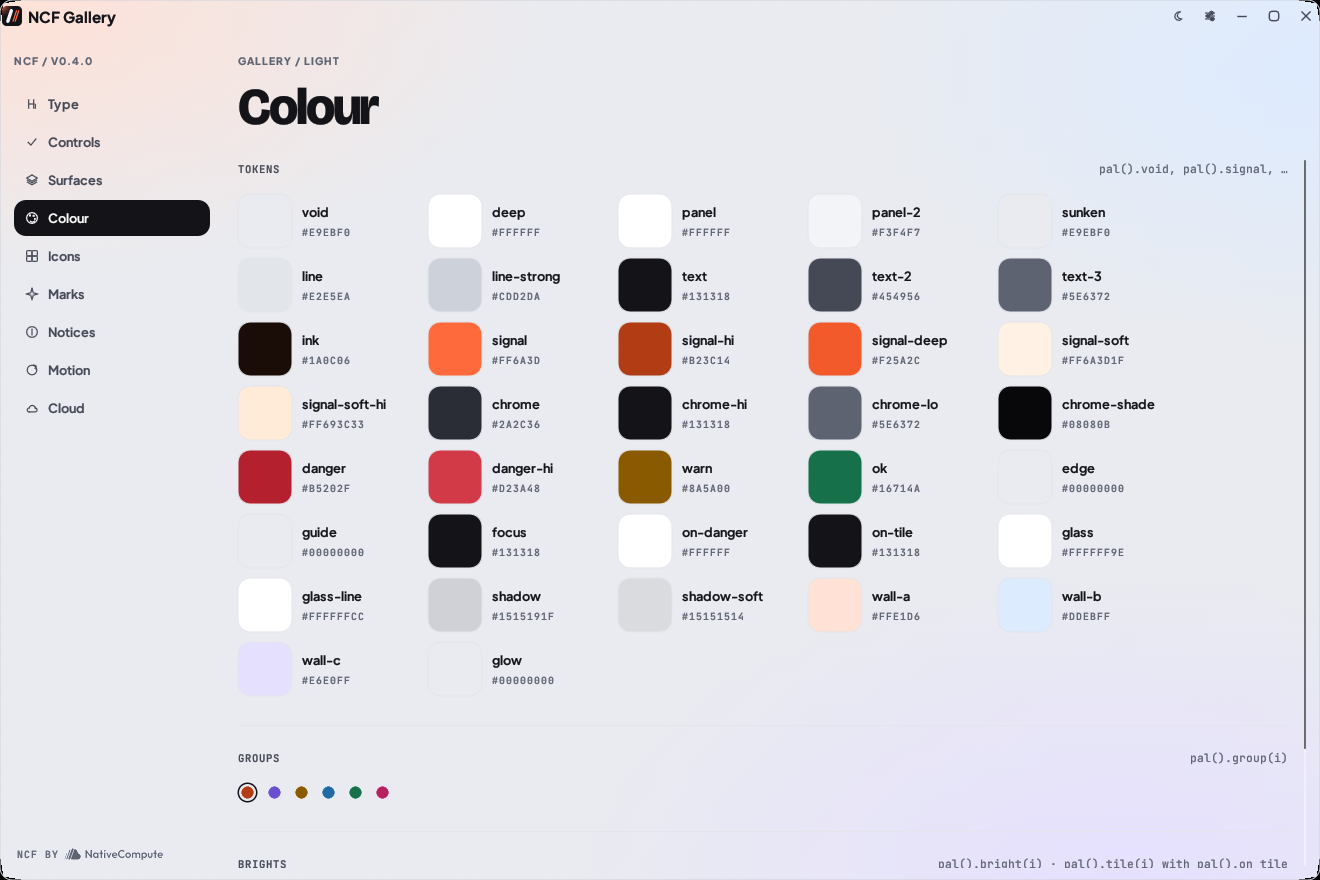
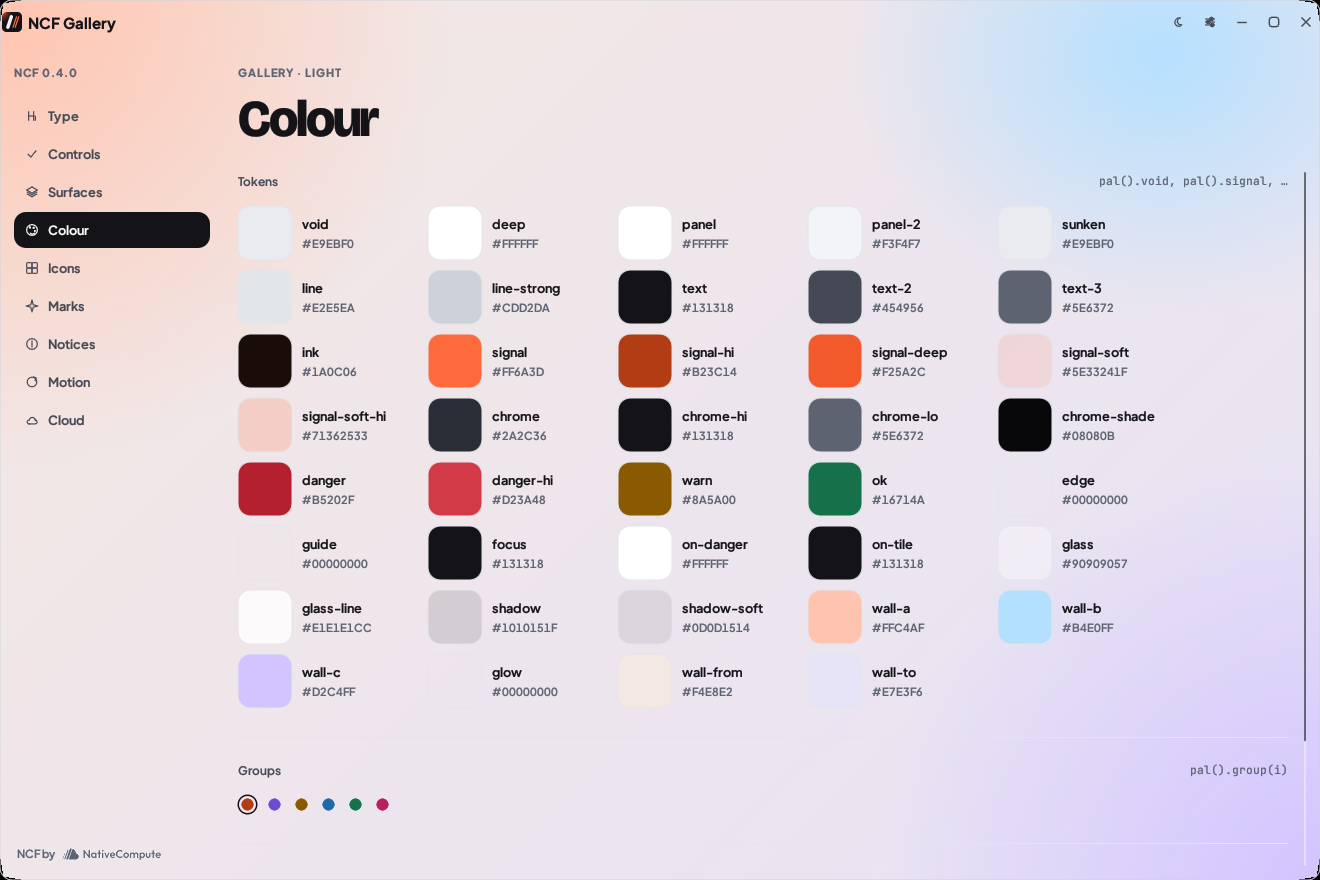
Segmented tabs share the width they are given; docs and gallery for the label type and the glass shell
seg_tabs no longer grows past the width it is handed, so a tab row with
counts stays inside a narrow panel. The docs describe the Jakarta label cut,
sentence-case readouts, eyebrows as the only capitals, and the new widgets,
and the gallery shows them in both casts.

diff --git a/examples/gallery/src/main.rs b/examples/gallery/src/main.rs
@@ -93,7 +93,7 @@ impl NcfApp for Gallery {
         let full = ui.available_rect_before_wrap();
         let nav = Rect::from_min_size(full.min + Vec2::new(0.0, 12.0), Vec2::new(196.0, full.height() - 12.0));
         let mut n = ui.new_child(egui::UiBuilder::new().max_rect(nav).layout(Layout::top_down(Align::Min)));
-        ui::eyebrow(&mut n, &format!("NCF / V{}", ncf::VERSION));
+        ui::eyebrow(&mut n, &format!("NCF {}", ncf::VERSION));
         n.add_space(10.0);
         if let Some(k) = ui::vertical_tabs(&mut n, &SECTIONS, self.section) {
             self.section = k;
@@ -106,7 +106,7 @@ impl NcfApp for Gallery {
         let pane = Rect::from_min_max(Pos2::new(nav.right() + 28.0, full.top() + 12.0), full.max);
         let mut c = ui.new_child(egui::UiBuilder::new().max_rect(pane).layout(Layout::top_down(Align::Min)));
         let (name, _) = SECTIONS[self.section];
-        ui::eyebrow(&mut c, &format!("Gallery / {}", if pal().dark { "dark" } else { "light" }));
+        ui::eyebrow(&mut c, &format!("Gallery · {}", if pal().dark { "dark" } else { "light" }));
         ui::giant_fit(&mut c, name, 52.0, 28.0, pane.width());
         c.add_space(14.0);
         egui::ScrollArea::vertical().id_salt(("gallery", self.section)).auto_shrink([false, false]).show(&mut c, |ui| {
@@ -145,7 +145,7 @@ impl Gallery {
             ui::giant(ui, "NATIVECOMPUTE", 54.0);
         });
         block(ui, "Eyebrow", "ui::eyebrow(ui, text)", |ui| {
-            ui::eyebrow(ui, "Ledger / 12 items");
+            ui::eyebrow(ui, "Continue writing");
         });
         block(ui, "Heading", "ui::heading(ui, text)", |ui| {
             ui::heading(ui, "Recent work");
@@ -156,11 +156,13 @@ impl Gallery {
         block(ui, "Caption", "ui::caption(ui, text)", |ui| {
             ui::caption(ui, "Saved 2 minutes ago · 14 KB");
         });
-        block(ui, "HUD", "ui::hud(ui, text, None)", |ui| {
+        block(ui, "Label", "ui::hud(ui, text, None)", |ui| {
             ui.horizontal(|ui| {
-                ui::hud(ui, "V0.1.0 / STABLE", None);
+                ui::hud(ui, &format!("Up to date · {}", ncf::VERSION), None);
                 ui.add_space(16.0);
-                ui::hud(ui, "SIGNAL", Some(pal().signal_hi));
+                ui::hud(ui, "Synced · 2s ago", Some(pal().signal_hi));
+                ui.add_space(16.0);
+                ui::hud(ui, "1,240 · 0,987 · 2,016", None);
             });
         });
         block(ui, "Scale", "theme::T_TITLE … T_MICRO", |ui| {
@@ -224,6 +226,34 @@ impl Gallery {
             ui.set_max_width(420.0);
             ui::slider(ui, &mut self.level, 0.0..=1.0);
         });
+        block(ui, "Tags", "ui::tag(ui, text, tone) · ui::live_tag", |ui| {
+            ui.horizontal(|ui| {
+                ui::tag(ui, "Night", Some(1));
+                ui::tag(ui, "Day", Some(2));
+                ui::tag(ui, "Dawn", Some(0));
+                ui::tag(ui, "Draft 2", None);
+                ui::live_tag(ui, "Live");
+            });
+        });
+        block(ui, "Select and stat chips", "ui::select_button · ui::stat_chip", |ui| {
+            ui.horizontal(|ui| {
+                ui::select_button(ui, "Element", "Action");
+                ui.add_space(12.0);
+                ui::stat_chip(ui, "1", "page");
+                ui::stat_chip(ui, "117", "words");
+            });
+        });
+        block(ui, "Segmented tabs", "ui::seg_tabs(ui, &tabs, current, Some(width))", |ui| {
+            let tabs = [
+                ui::SegTab { label: "Scenes", icon: None, count: None, dot: false },
+                ui::SegTab { label: "Notes", icon: None, count: Some(3), dot: false },
+                ui::SegTab { label: "Changes", icon: None, count: None, dot: true },
+                ui::SegTab { label: "Cast", icon: None, count: None, dot: false },
+            ];
+            if let Some(k) = ui::seg_tabs(ui, &tabs, self.seg.min(3), Some(320.0)) {
+                self.seg = k;
+            }
+        });
         block(ui, "Segmented and tabs", "ui::segmented · ui::tabs", |ui| {
             if let Some(k) = ui::segmented(ui, &[("Grid", Icon::Grid), ("List", Icon::List), ("Graph", Icon::Graph)], self.seg) {
                 self.seg = k;
@@ -283,7 +313,7 @@ impl Gallery {
                     theme::surface(ui.painter(), rect, theme::R_LG, lift);
                     let painter = ui.painter();
                     painter.circle_filled(rect.left_top() + Vec2::new(24.0, 26.0), 5.0, p.bright(i));
-                    ui::eyebrow_text(painter, rect.left_top() + Vec2::new(36.0, 26.0), &format!("Item {:02}", i + 1), p.text_3);
+                    ui::eyebrow_text(painter, rect.left_top() + Vec2::new(36.0, 26.0), &format!("Item {}", i + 1), p.text_3);
                     painter.text(rect.left_top() + Vec2::new(20.0, 56.0), egui::Align2::LEFT_CENTER, *title, theme::font_bold(theme::T_BODY + 1.0), p.text);
                     painter.text(rect.left_top() + Vec2::new(20.0, 80.0), egui::Align2::LEFT_CENTER, "Edited today", theme::font(theme::T_SM), p.text_2);
                 }
@@ -317,6 +347,23 @@ impl Gallery {
                 ui::ribbon_button(ui, Icon::Star, "Starred", "", true);
             });
         });
+        block(ui, "Glass sidebar", "ui::side_link · ui::side_section · ui::search_trigger", |ui| {
+            let (rect, _) = ui.allocate_exact_size(Vec2::new(ui.available_width().min(620.0), 220.0), Sense::hover());
+            theme::wallpaper(ui.painter(), rect, theme::R_LG);
+            let side = Rect::from_min_size(rect.min + Vec2::new(16.0, 16.0), Vec2::new(220.0, rect.height() - 32.0));
+            ui.painter().rect_filled(side, egui::Rounding::same(theme::R_LG), p.glass);
+            ui.painter().rect_stroke(side.shrink(0.5), egui::Rounding::same(theme::R_LG), egui::Stroke::new(1.0_f32, p.glass_line));
+            theme::glass_highlight(ui.painter(), side, theme::R_LG);
+            let mut c = ui.new_child(egui::UiBuilder::new().max_rect(side.shrink(10.0)).layout(Layout::top_down(Align::Min)));
+            ui::side_link(&mut c, Icon::Home, "Home", None, false);
+            ui::side_link(&mut c, Icon::File, "Crossfire", Some("open"), true);
+            ui::side_link(&mut c, Icon::Star, "Starred", Some("3"), false);
+            ui::side_section(&mut c, "Cloud");
+            ui::side_link(&mut c, Icon::Cloud, "My cloud", None, false);
+            let mut t = ui.new_child(egui::UiBuilder::new().max_rect(Rect::from_min_max(Pos2::new(side.right() + 20.0, side.top()), Pos2::new(rect.right() - 16.0, side.top() + 40.0))).layout(Layout::left_to_right(Align::Center)));
+            let w = t.available_width().min(340.0);
+            ui::search_trigger(&mut t, w, "Search or jump to…", &format!("{}+K", ncf::OS.command_key()));
+        });
         block(ui, "Section and separator", "ui::section(ui, label) · ui::separator(ui)", |ui| {
             ui::section(ui, "Motion");
             ui::caption(ui, "A section label groups the rows under it.");
@@ -328,14 +375,8 @@ impl Gallery {
             ui.painter().text(rect.center(), egui::Align2::CENTER_CENTER, "Keyboard focus", theme::font_semi(theme::T_SM), p.text);
             theme::focus_ring_r(ui.painter(), rect, rect.height() * 0.5);
         });
-        block(ui, "Empty state", "ui::giant + ui::body + ui::button", |ui| {
-            theme::panel_box().show(ui, |ui| {
-                ui.set_width(ui.available_width());
-                ui::giant(ui, "Nothing yet", 30.0);
-                ui::body(ui, "Make your first item and it shows up here.");
-                ui.add_space(8.0);
-                ui::button(ui, "New item", Some(Icon::Plus), true);
-            });
+        block(ui, "Empty state", "ui::empty_state(ui, icon, title, body, action)", |ui| {
+            ui::empty_state(ui, Icon::File, "Nothing here yet", "Make your first item and it shows up here.", Some("New item"));
         });
     }
 

diff --git a/crates/ncf/src/ui.rs b/crates/ncf/src/ui.rs
@@ -905,12 +905,14 @@ pub fn seg_tabs(ui: &mut egui::Ui, tabs: &[SegTab], current: usize, width: Optio
     let extra = |t: &SegTab| -> f32 {
         (if t.icon.is_some() { 22.0 } else { 0.0 }) + if t.count.is_some() { 26.0 } else if t.dot { 12.0 } else { 0.0 }
     };
-    let natural: Vec<f32> = tabs.iter().map(|t| theme::tracked_width(ui.ctx(), t.label, font.clone(), 0.0) + extra(t) + 30.0).collect();
+    let content: Vec<f32> = tabs.iter().map(|t| theme::tracked_width(ui.ctx(), t.label, font.clone(), 0.0) + extra(t)).collect();
     let pad = 4.0;
     let h = 38.0;
-    let total_natural: f32 = natural.iter().sum::<f32>() + pad * 2.0;
-    let total = width.unwrap_or(total_natural).max(total_natural);
-    let scale = (total - pad * 2.0) / (total_natural - pad * 2.0).max(1.0);
+    let snug: f32 = content.iter().sum::<f32>() + 14.0 * tabs.len() as f32 + pad * 2.0;
+    let natural_total: f32 = content.iter().sum::<f32>() + 30.0 * tabs.len() as f32 + pad * 2.0;
+    let total = width.unwrap_or(natural_total).max(snug);
+    let spare = (total - pad * 2.0 - content.iter().sum::<f32>()) / tabs.len().max(1) as f32;
+    let widths: Vec<f32> = content.iter().map(|c| c + spare).collect();
     let (rect, _) = ui.allocate_exact_size(Vec2::new(total, h), Sense::hover());
     let r = h * 0.5;
     ui.painter().rect_filled(rect, egui::Rounding::same(r), p.glass);
@@ -920,7 +922,7 @@ pub fn seg_tabs(ui: &mut egui::Ui, tabs: &[SegTab], current: usize, width: Optio
     let mut x = rect.left() + pad;
     let mut picked = None;
     for (i, t) in tabs.iter().enumerate() {
-        let w = natural[i] * scale;
+        let w = widths[i];
         let cell = Rect::from_min_size(Pos2::new(x, rect.top() + pad), Vec2::new(w, h - pad * 2.0));
         x += w;
         let resp = ui.interact(cell, ui.id().with(("ncf-segtab", i)), Sense::click());
@@ -930,8 +932,7 @@ pub fn seg_tabs(ui: &mut egui::Ui, tabs: &[SegTab], current: usize, width: Optio
         }
         let rest = if resp.hovered() { p.text } else { p.text_2 };
         let ink = theme::mix(rest, sel_ink, lit);
-        let content = theme::tracked_width(ui.ctx(), t.label, font.clone(), 0.0) + extra(t);
-        let mut cx = cell.center().x - content * 0.5;
+        let mut cx = cell.center().x - content[i] * 0.5;
         if let Some(icon) = t.icon {
             icons::draw(ui.painter(), Rect::from_center_size(Pos2::new(cx + 7.0, cell.center().y), Vec2::splat(14.0)), icon, ink);
             cx += 22.0;

diff --git a/crates/ncf/src/tests.rs b/crates/ncf/src/tests.rs
@@ -884,3 +884,33 @@ fn surfaces_cast_soft_shadows_and_selection_reads() {
     }
     theme::set_palette(true);
 }
+
+#[test]
+fn segmented_tabs_share_the_width_they_are_given() {
+    let _g = lock();
+    let mut h = Harness::new(1000.0, 800.0);
+    theme::set_palette(true);
+    theme::apply(&h.ctx);
+    let tabs = [
+        ui::SegTab { label: "Scenes", icon: None, count: None, dot: false },
+        ui::SegTab { label: "Notes", icon: None, count: Some(12), dot: false },
+        ui::SegTab { label: "Changes", icon: None, count: None, dot: true },
+        ui::SegTab { label: "Cast", icon: None, count: None, dot: false },
+    ];
+    let mut sizes = Vec::new();
+    h.frames(2, |ctx| {
+        sizes.clear();
+        egui::CentralPanel::default().show(ctx, |ui| {
+            for w in [300.0, 520.0] {
+                let got = ui.scope(|ui| {
+                    ui::seg_tabs(ui, &tabs, 1, Some(w));
+                    ui.min_rect().width()
+                });
+                sizes.push((w, got.inner));
+            }
+        });
+    });
+    for (w, got) in sizes {
+        assert!(got <= w + 0.5, "{got} spills past {w}");
+    }
+}

diff --git a/docs/components.md b/docs/components.md
@@ -24,11 +24,12 @@ brings in `ui`, `theme`, `pal`, `anim`, `Icon`, `AppInfo`, `AppMark`, `slab`, `l
 |---|---|---|---|---|
 | Giant | `ui::giant(ui, "Your items", 46.0)` | `<h1 class="giant"><span class="fit" data-fit>Gallery</span></h1>` | The page or window title. One per screen. | Anything under 26 px, or more than one per screen. |
 | Giant, fitted | `ui::giant_fit(ui, name, 46.0, 28.0, width)` | `data-fit` on a `.fit` span | The title is something a person typed and could be long. | The text is fixed and known to fit. |
-| Eyebrow | `ui::eyebrow(ui, "Ledger / 12 items")` | `<p class="hud">…</p>` above the title | A breadcrumb or count above a giant title. | Sentences. |
+| Eyebrow | `ui::eyebrow(ui, "Continue writing")` | `<p class="eyebrow">…</p>` above the title | The one capitals style: a short label above a tile's title. | Sentences, or anything a person reads twice. |
 | Heading | `ui::heading(ui, "Recent work")` | `<h2 class="h2">`, `<h3 class="h3">` | A section or card title. | The screen title (use giant). |
 | Body | `ui::body(ui, text)` | `<p>`, `<p class="lead">`, `<p class="sec">` | Explanations and descriptions. | Labels on controls. |
 | Caption | `ui::caption(ui, text)` | `<p class="sec">` at `--t-meta` | Metadata under an item: dates, sizes, paths. | Anything a person must read to act. |
-| HUD | `ui::hud(ui, "V0.1.0 / STABLE", None)` | `<span class="hud">` | Versions, counts, keyboard hints, live values. | Running text or anything over one line. |
+| Label | `ui::hud(ui, "Up to date · 0.4.0", None)` | `<span class="hud">` | Versions, counts, live values, in sentence case with figures that line up. | Running text or anything over one line. |
+| Tag | `ui::tag(ui, "Night", Some(1))`, `ui::live_tag(ui, "Live")` | `.tag`, `.tag--night` | A short state on an item: time of day, draft, revision colour, someone in it now. | Actions (use a chip button). |
 | Link | `ui::link(ui, "nativecompute.net")` | `<a class="link">` | Leaving the app or going to another page. | Actions inside the app (use a button). |
 
 Long text inside a fixed width goes through `ui::elide_to_width(ctx, text, font, tracking, width)`. It measures the real glyphs and cuts at a word with an ellipsis. Never cut by character count.
@@ -60,7 +61,7 @@ Long text inside a fixed width goes through `ui::elide_to_width(ctx, text, font,
 | Chip | `ui::chip(ui, "Shared", Some(pal().group(2)))` | `.card-flag` | A tag on an item, in its group colour. |
 | Chip button | `ui::chip_button(ui, "+ Tag")` | n/a | Adding a tag. |
 
-A chip is never decoration on static text. If nothing can be done with it, write it as a HUD readout instead.
+A chip is never decoration on static text. If nothing can be done with it, write it as a label or a tag instead.
 
 ---
 
@@ -125,6 +126,12 @@ if self.open {
 | Card | `theme::surface(painter, rect, theme::R_LG, Lift::Rest)` | `<article class="card">`, `.card--chosen` | An item in a grid a person can open. |
 | Tile | `theme::tile(painter, rect, theme::R_XL, i)` with `ui::big_number` | `.tile--coral`, `--lilac`, `--sun`, `--sky` | The few facts a screen exists to show. Ink text only. |
 | Floating bar | `ui::pill_bar(ui, \|ui\| ..)` | the site header | Tools that float above the content. |
+| Sidebar link | `ui::side_link(ui, Icon::Home, "Home", Some("3"), on)`, `ui::side_section(ui, "Cloud")` | `.side-link` | Places in a glass sidebar. The current one is an inverted pill. |
+| Search trigger | `ui::search_trigger(ui, 380.0, "Search or jump to…", "Ctrl+K")` | `.find-btn` | The title bar's way into the command palette. |
+| Segmented tabs | `ui::seg_tabs(ui, &tabs, current, Some(width))` with `SegTab { label, icon, count, dot }` | `.seg` | Switching views or panels. Given a width, the tabs share it and shrink to fit. |
+| Stat chip | `ui::stat_chip(ui, "117", "words")` | `.stat-chip` | A figure in a status pill. |
+| Select button | `ui::select_button(ui, "Element", "Action")` | `.select` | A dropdown whose current value matters more than its name. |
+| Empty state | `ui::empty_state(ui, Icon::File, title, body, Some("New script"))` | `.empty` | A list or screen with nothing in it yet. Say what will appear and offer the one action. |
 | Section label | `ui::section(ui, "Where things live")` | `<p class="hud">01 / Section</p>` in `.section-head` | Grouping rows in settings or a long page. |
 | Separator | `ui::separator(ui)` | `<hr>` or a hairline border | Between groups of rows. |
 | Spec list | n/a | `<dl class="spec">`, `<dl class="facts">` | Pairs of label and value. |
@@ -136,7 +143,7 @@ if self.open {
 
 ## Notices and confirmation
 
-Notices are pills: a lifted surface with a dot of their tone colour, a HUD label in that colour (DONE, NOTE, WARNING, ERROR) and the message. They stack at the bottom centre and leave on their own. Confirmations are a rounded surface in the centre over a scrim, with a tone dot and eyebrow, the title, the body, and a primary and a ghost button (the primary is the danger pill for anything that deletes); they wait for an answer.
+Notices are pills: a lifted surface with a dot of their tone colour, a label in that colour (Done, Note, Warning, Error) and the message. They stack at the bottom centre and leave on their own. Confirmations are a rounded surface in the centre over a scrim, with a tone dot and eyebrow, the title, the body, and a primary and a ghost button (the primary is the danger pill for anything that deletes); they wait for an answer.
 
 | Component | Rust | Web | Use when |
 |---|---|---|---|

diff --git a/CHANGELOG.md b/CHANGELOG.md
@@ -7,7 +7,10 @@ NCF follows [semantic versioning](https://semver.org). Apps pin a tag, so nothin
 ### Bento 2.0
 
 - **A new look.** Rounded tiles on a soft wallpaper, one coral accent (`signal` is now #FF6A3D), colour tiles in coral, lilac, sun and sky with ink text, soft token shadows, and frosted floating bars (`ui::pill_bar`, `theme::glass`). The dark cast is graphite with a coral glow in the top-left corner.
-- **New type.** Bricolage Grotesque for display and headings, Plus Jakarta Sans for the interface, JetBrains Mono for HUD readouts. Display type is sentence case. The desktop fonts carry their kerning in a `kern` table so egui sets them properly.
+- **New type.** Bricolage Grotesque for display and headings, Plus Jakarta Sans for the interface. Display type is sentence case. The desktop fonts carry their kerning in a `kern` table so egui sets them properly.
+- **Labels you can read.** `ui::hud` and `theme::font_hud` are now a Plus Jakarta Sans label cut (weight 560, tabular figures baked in) in sentence case with no tracking, instead of upper-case JetBrains Mono. Eyebrows (`ui::eyebrow`) are the only capitals left. Mono is for keycaps and code. Every built-in string (notices, the updater, splash, cloud screens) is sentence case.
+- **Glass chrome.** `chrome::title_bar_with` takes a crumb and a centre slot (`TITLE_H` is 44). New widgets for a glass shell: `side_link`, `side_section`, `search_trigger`, `seg_tabs` (shares the width it is given), `stat_chip`, `select_button`, `tag`/`live_tag`, `empty_state`. `theme::glass_highlight` draws the inset edge, `Pal::pill` and `Pal::tag` give their fills, and `Icon::Note` joins the set.
+- **The wallpaper** gains a 135° base gradient (`wall_from`, `wall_to`) under its three washes. Translucent tokens are premultiplied the way CSS composites them, and `theme::css_rgba` does the same at runtime, so dark glass stays dark.
 - **Tokens.** New colours (`focus`, `on_danger`, `on_tile`, `glass`, `glass_line`, `shadow`, `shadow_soft`, `wall_a/b/c`, `glow`), six `brights`, a radius scale (`RADIUS_SM` to `RADIUS_PILL`; `RADIUS` is now 12), shadows and the wallpaper. The CSS gains `--wallpaper`, `--shadow*`, `--r-*` and website aliases (`--bg`, `--accent`, `--link`, `--on-accent`).
 - **System appearance.** `Look.appearance` is `System`, `Light` or `Dark`, saved as `appearance`; `light_mode` is still read and written for older builds. System follows the computer, falling back to dark when it says nothing. On the web the theme toggle cycles auto, light and dark.
 - **App icons on the Bento tile.** Breaking: `AppMark` is now built with `AppMark::drawn(name, parts)` or `AppMark::raster(name, png)`. Every app icon sits on the ink tile with the coral glow, and the app binary composes every size (`png`, `ico`, padded `icns`, `svg`). `paint` draws the whole icon; `paint_glyph` draws a drawn mark alone.

diff --git a/docs/design-language.md b/docs/design-language.md
@@ -47,9 +47,10 @@ Three families, five roles. All ship with NCF (`crates/ncf/fonts`, `web/fonts`) 
 | Heading | Bricolage Grotesque 800 (text cut), tracking -0.02em | `ui::heading`, `theme::font_heading` | `.h2`, `.h3` | Section and card titles. |
 | UI | Plus Jakarta Sans 600 and 700 | `theme::font_semi`, `theme::font_bold`, buttons, labels | `.btn`, labels | Controls and short labels. |
 | Body | Plus Jakarta Sans 400 | `ui::body`, `theme::font` | `p`, `.lead`, `.sec` | Running text. |
-| HUD | JetBrains Mono 500, upper case, tracking 0.08em | `ui::hud`, `theme::font_hud` | `.hud` | Readouts: versions, counts, paths, keyboard hints. |
+| Label | Plus Jakarta Sans 560 (the label cut), tabular figures, sentence case | `ui::hud`, `theme::font_hud` | `.hud` | Labels and readouts: counts, versions, paths, live values. Figures line up in columns. |
+| Mono | JetBrains Mono 500 | `theme::font_mono`, `keys::keycap` | `code`, `.kbd` | Keycaps and code only. |
 
-Eyebrows (`ui::eyebrow`, `ui::section`) are Plus Jakarta Sans 700 in upper case, tracked wide, in `text-3`.
+Eyebrows (`ui::eyebrow`) are Plus Jakarta Sans 700 in upper case at 0.06em, in `text-3`. They are the only capitals in the interface: *Continue writing*, *Next deadline*, and the group headings `ui::section` draws.
 
 Desktop sizes (`theme::T_*`): title 26, heading 17, body 14.5, small 13, label 12, caption 11, micro 10. Web sizes are a 1.2 ratio scale from `--t-meta` (0.75rem) to `--t-5` (2.488rem), and giant type is fitted to its container with `data-fit`.
 

diff --git a/docs/recipes.md b/docs/recipes.md
@@ -4,7 +4,7 @@ Screens NativeCompute has already solved. Start from these before designing anyt
 
 ## Page header: eyebrow, giant title, primary action
 
-Every main screen opens the same way: a HUD breadcrumb, a giant title that fits its space, and the one primary action on the right.
+Every main screen opens the same way: a label breadcrumb, a giant title that fits its space, and the one primary action on the right.
 
 ```rust
 let w = ui.available_width().min(1100.0);
@@ -70,7 +70,7 @@ for row in shown.chunks(cols) {
                 font,
                 p.text,
             );
-            theme::tracked_text(&clip, Pos2::new(rect.left() + 16.0, rect.bottom() - 22.0), &format!("ITEM {:02}", i + 1), theme::font_hud(theme::T_MICRO + 0.5), p.text_3, theme::HUD_TRACKING);
+            theme::tracked_text(&clip, Pos2::new(rect.left() + 16.0, rect.bottom() - 22.0), &format!("Item {}", i + 1), theme::font_hud(theme::T_MICRO + 0.5), p.text_3, theme::HUD_TRACKING);
         }
     });
     ui.add_space(gap);
@@ -79,7 +79,7 @@ for row in shown.chunks(cols) {
 
 - Columns come from the width, so the grid reflows when the window or the interface size changes.
 - The title is measured with `elide_to_width` and the painter is clipped to the card, so nothing ever spills out. Leave room on the right for the hover actions.
-- Secondary facts go at the foot in HUD type.
+- Secondary facts go at the foot in label type.
 - Actions such as delete appear on hover in the top right, as a 24 px icon button.
 
 ## Confirm before delete

diff --git a/AGENTS.md b/AGENTS.md
@@ -39,7 +39,8 @@ New app? Follow [`.claude/skills/ncf-app/SKILL.md`](.claude/skills/ncf-app/SKILL
 - The window background is the wallpaper (`chrome::backdrop`). The dark cast adds a coral glow in the top-left corner, the same glow as the app icon.
 - Display type is Bricolage Grotesque 800, sentence case, tracked -0.045em, for page titles, big numbers and giant words, 26 px and up. Headings below that use the heading cut of the same face.
 - UI and body text are Plus Jakarta Sans (600 for controls, 400 for running text).
-- HUD readouts are JetBrains Mono 500, upper case, tracked 0.08em, in `text-2` or `text-3`. Eyebrows (`ui::eyebrow`, `ui::section`) are Jakarta 700, upper case.
+- Labels and readouts (`ui::hud`, `theme::font_hud`) are the Plus Jakarta Sans label cut: weight 560, tabular figures, sentence case, no tracking, in `text-2` or `text-3`. Eyebrows (`ui::eyebrow`, and `ui::section` for group headings) are Jakarta 700 in upper case at 0.06em, and they are the only capitals in the interface. JetBrains Mono is for keycaps and code only.
+- Glass is for chrome that floats (sidebars, toolbar and status pills, the search trigger, segmented tabs). Anything a person reads or works on is a solid tile.
 - Sentence case for buttons, labels and body copy. Verbs first on buttons.
 - Every interactive element has a focus ring: 2 px `focus` (ink in light, white in dark), offset 2 px, following the element's corners.
 - Hit targets are at least 28 px in the desktop app and 44 px on the web.

diff --git a/docs/writing.md b/docs/writing.md
@@ -14,7 +14,7 @@ NativeCompute talks like a capable colleague: direct, plain and calm. It says wh
 ## Case
 
 - Sentence case for buttons, labels, menu items, settings, notices, headings and page titles in running text.
-- Upper case only for display type (giant titles) and HUD readouts. The components set the case for you, so write the text in sentence case and let `ui::giant` and `ui::hud` raise it.
+- Upper case only for eyebrows. Write the text in sentence case and let `ui::eyebrow` raise it; labels, readouts and giant titles stay as written.
 - Product names keep their own case: NativeCompute, Blackline, YouTrack, GitHub.
 
 ## Buttons and menu items
@@ -79,9 +79,9 @@ A giant title that says the state, one line that says how to change it, and the 
 
 The action name, then the shortcut after a middle dot: **Settings · Ctrl+,**, **Close · Esc**, **Hide · Ctrl+I**. No full stops.
 
-## HUD readouts
+## Labels and readouts
 
-Short, factual, separated by a slash with spaces: **V0.1.0 / STABLE**, **LEDGER / 12 ITEMS**, **SETTINGS / DARK**. Use them for versions, counts, breadcrumbs and live values, never for sentences.
+Short and factual, in sentence case, separated by a middle dot: **Up to date · 0.4.0**, **Ledger · 12 items**, **Synced · 2s ago**. Write counts the way you would say them (**3 notes**, **Page 2 of 14**), never padded (**03**). Use them for versions, counts, breadcrumbs and live values, never for sentences.
 
 ## Numbers, time and symbols
 

diff --git a/docs/brand.md b/docs/brand.md
@@ -69,7 +69,7 @@ What one mark gives you:
 
 ## Maker line
 
-Every app says who made it, quietly, at the foot of its main screen: **LEDGER BY** in HUD type, then the NativeCompute logo, linking to nativecompute.net. `ui::maker_line(ui, rect, centred, "Ledger")` draws it and returns true when clicked. Web pages use `<a class="maker" href="https://nativecompute.net">Built with NCF by NativeCompute</a>` in the footer.
+Every app says who made it, quietly, at the foot of its main screen: **Ledger by** in label type, then the NativeCompute logo, linking to nativecompute.net. `ui::maker_line(ui, rect, centred, "Ledger")` draws it and returns true when clicked. Web pages use `<a class="maker" href="https://nativecompute.net">Built with NCF by NativeCompute</a>` in the footer.
 
 The splash carries the same line: **BY** + logo. Settings → About shows the logo under *Made by*, and the updater window shows it in its top-right corner. The name never appears as plain type in an app; every logo opens nativecompute.net when clicked.
 
